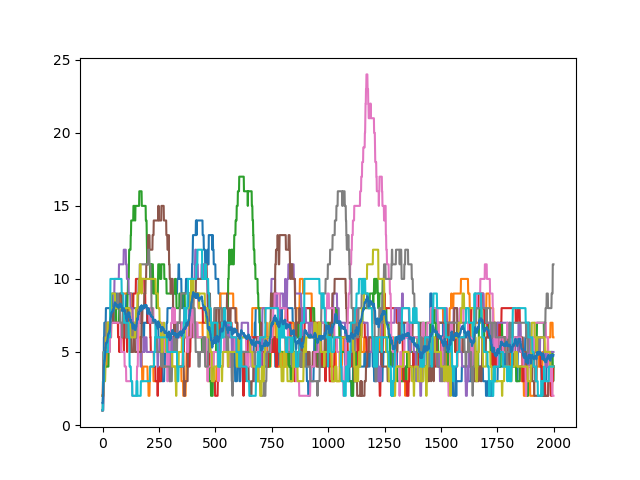
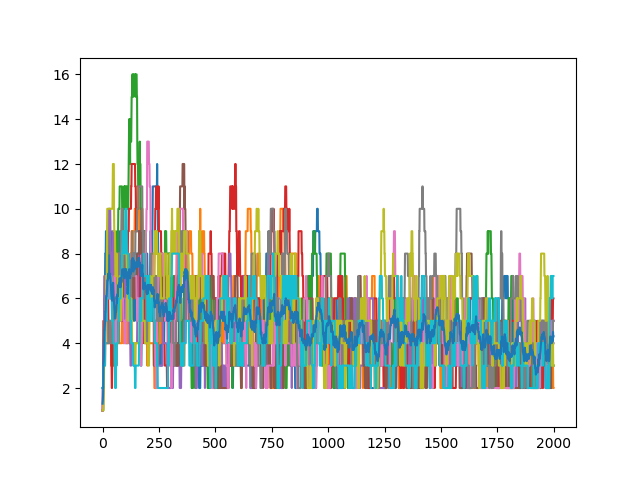
add median plot

diff --git a/lynx/enn10times_lynx.py b/lynx/enn10times_lynx.py
@@ -109,8 +109,8 @@ if __name__ == "__main__":
     best_list = []
 
     for i in range(10):
-        generation = range(len(stats_list[i].get_fitness_mean()))
-        avg_fitness = np.array(stats_list[i].get_fitness_mean())
+        generation = range(len(stats_list[i].get_fitness_median()))
+        avg_fitness = np.array(stats_list[i].get_fitness_median())
         avg_fitness_list.append(avg_fitness)
         best_fitness = [c.fitness for c in stats_list[i].most_fit_genomes]
         best_list.append(best_fitness)
